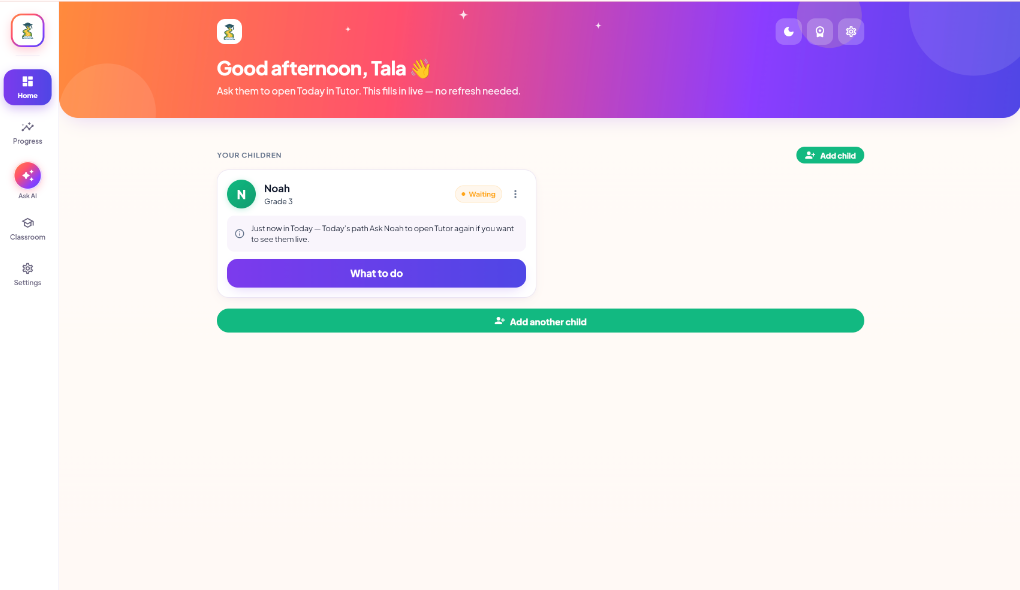
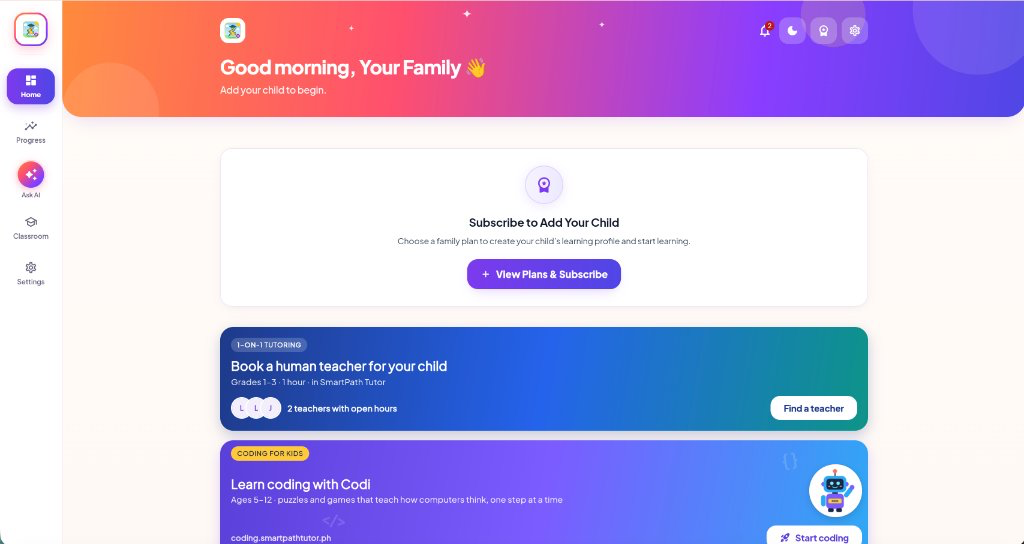
chore(parent): update parent app showcase screenshots across mobile, tablet, and laptop

diff --git a/src/components/site/device-showcase.tsx b/src/components/site/device-showcase.tsx
@@ -130,9 +130,9 @@ const APP_DATA: Record<
     ctaLabel: "See Plans",
     ctaHref: "/pricing",
     screens: {
-      mobile: "/images/parent-mobile.png?v=2",
-      tablet: "/images/parent-tablet.png?v=2",
-      laptop: "/images/parent-laptop.png?v=2",
+      mobile: "/images/parent-mobile.png?v=3",
+      tablet: "/images/parent-tablet.png?v=3",
+      laptop: "/images/parent-laptop.png?v=3",
     },
     showcaseTitle: "Inside",
     showcaseAccent: "SmartPath Parent.",
